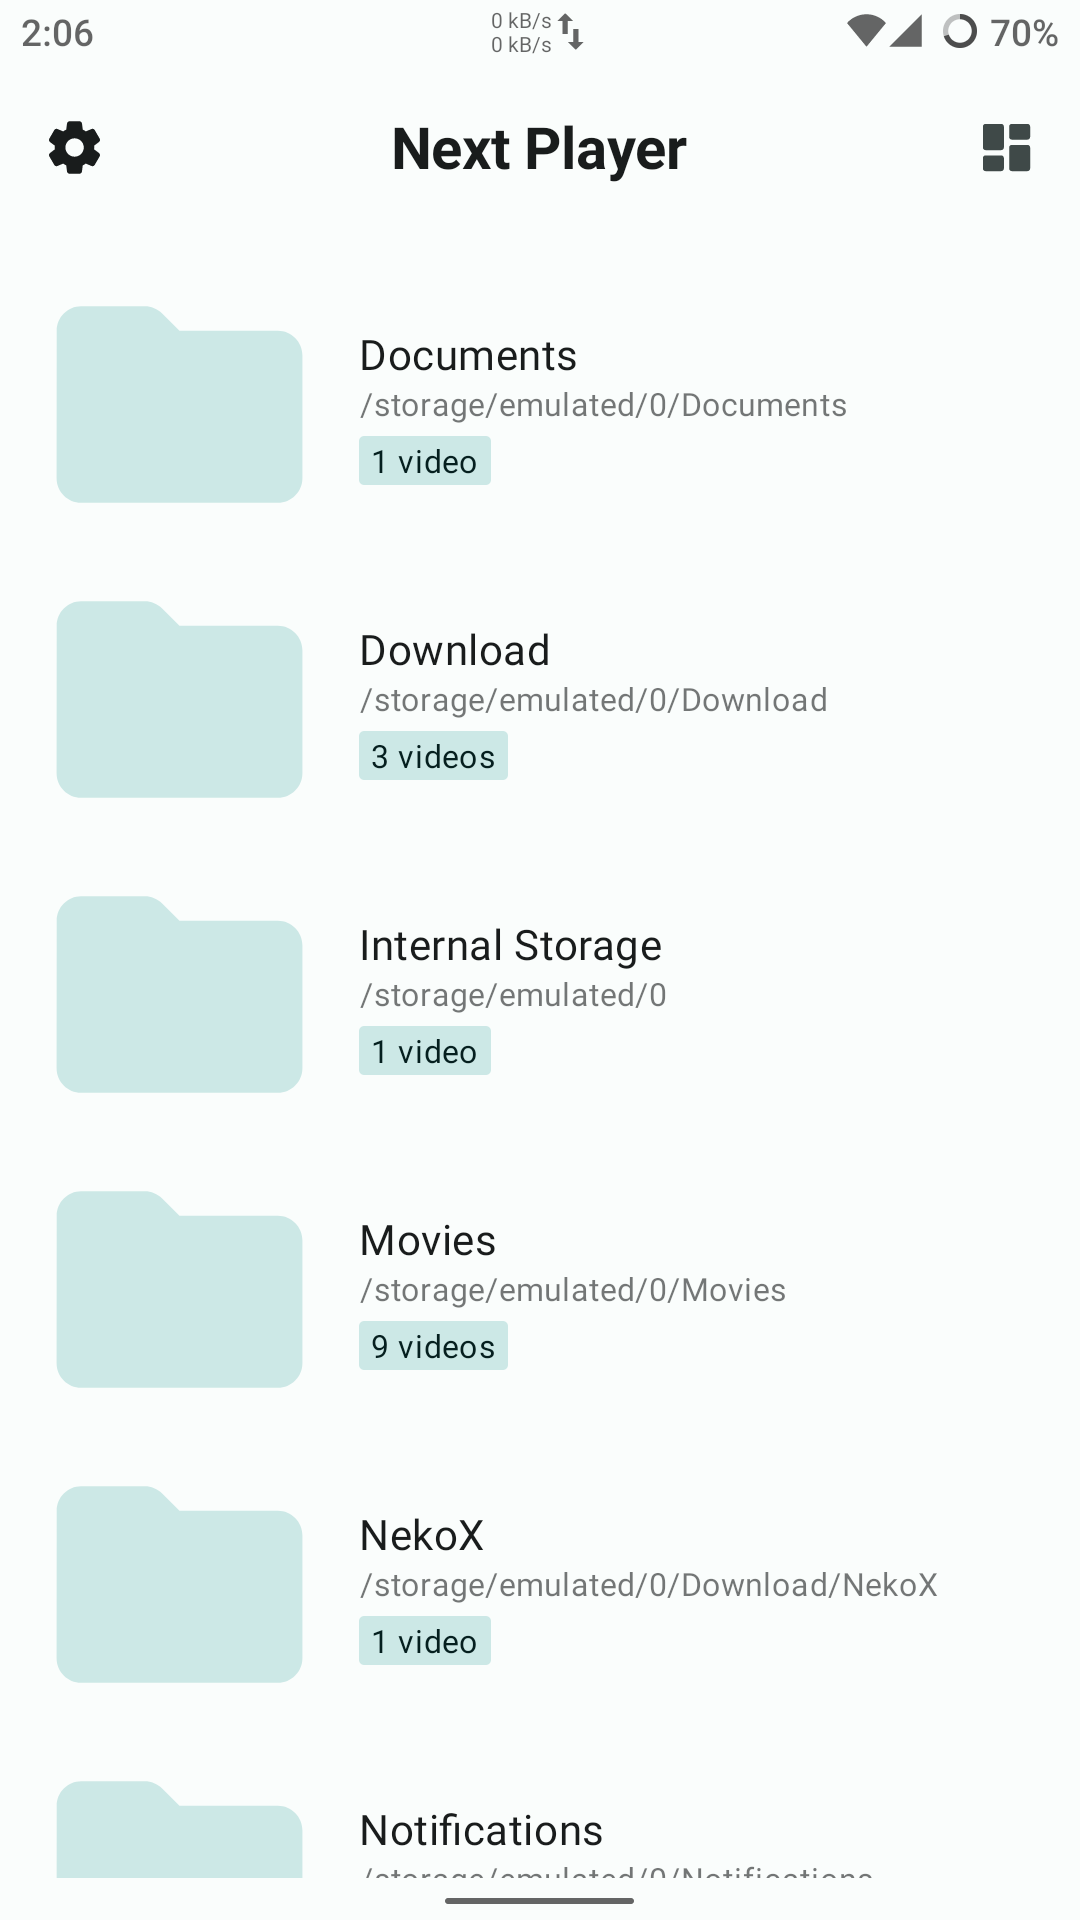
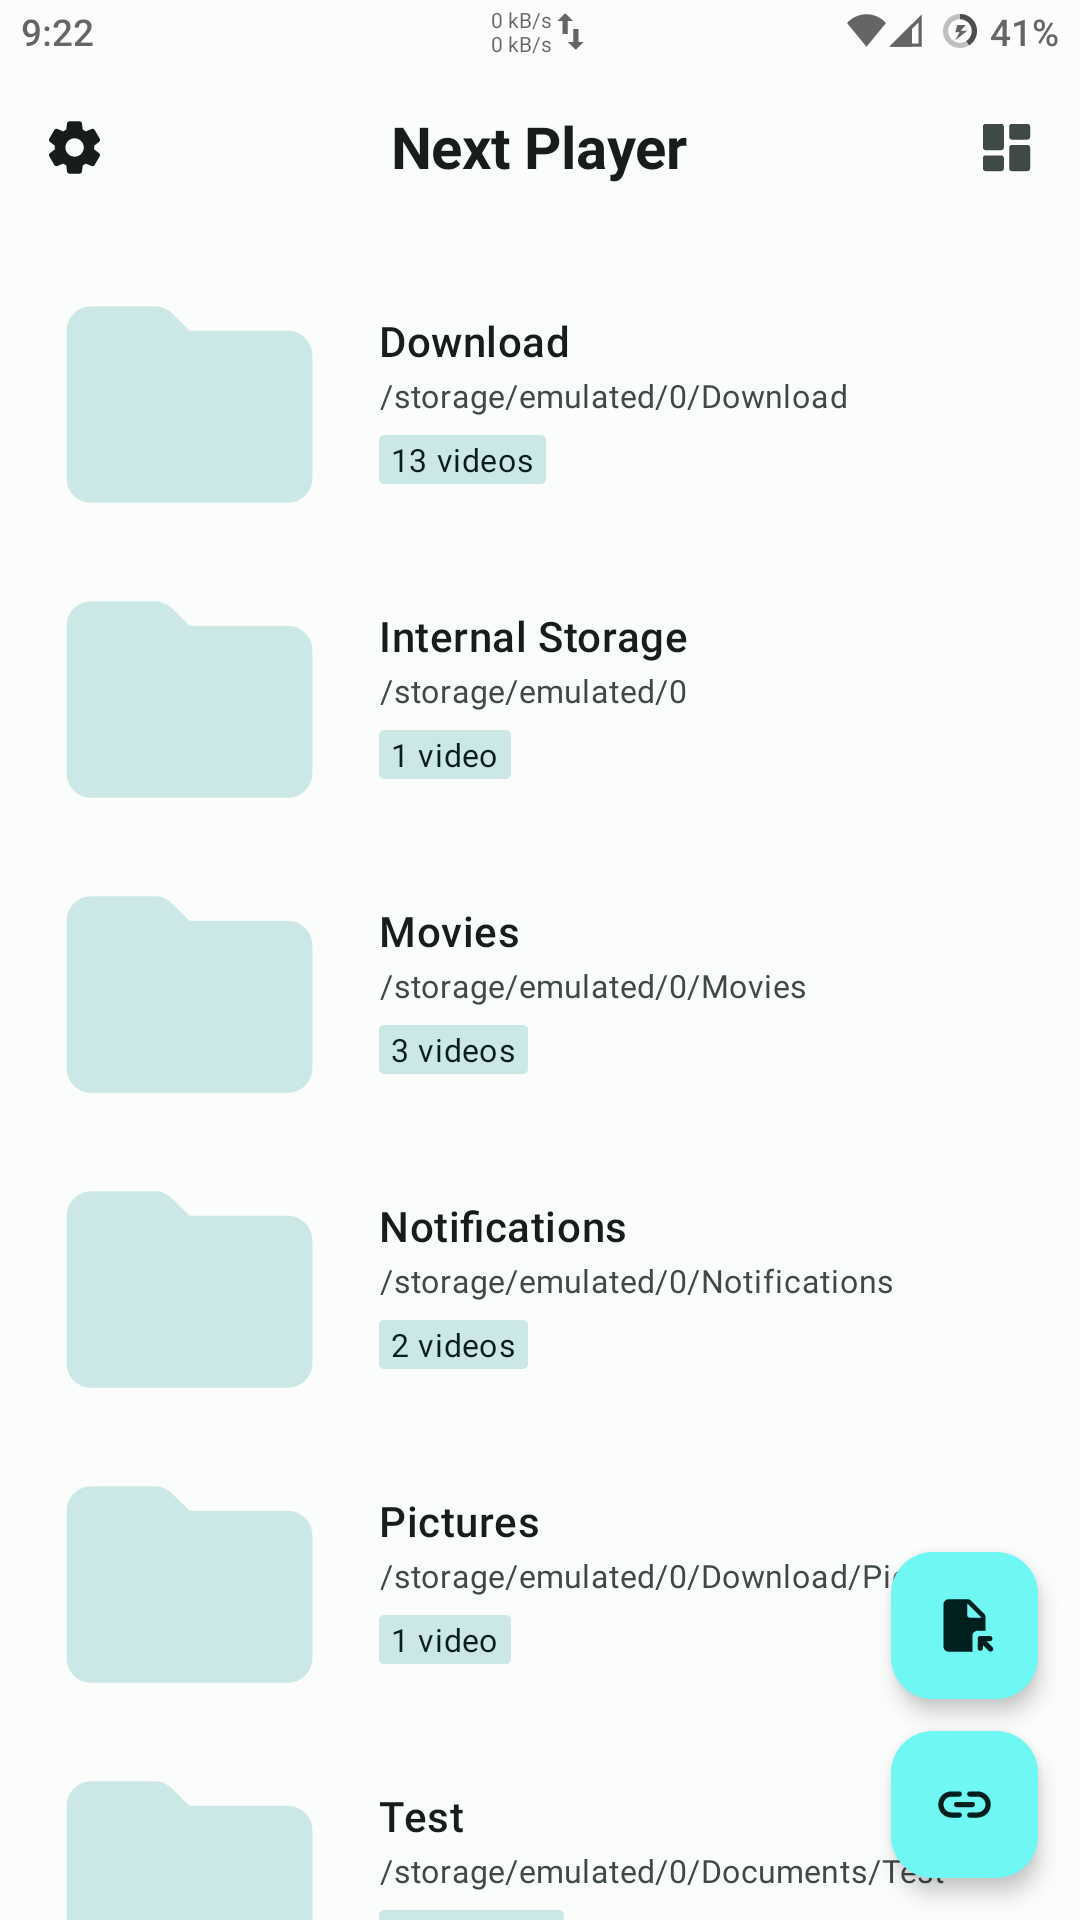
Build: Prepare for v0.4.0 release (#432)
* build: bump version to 0.4.0

* update readme

* update screenshots

* update screenshots

diff --git a/README.md b/README.md
@@ -12,18 +12,19 @@ Next Player is an Android native video player written in Kotlin. It provides a s
 
 <div style="width:100%; display:flex; justify-content:space-between;">
 
-[<img src="fastlane/metadata/android/en-US/images/phoneScreenshots/1.png" width=20% alt="Home Light">](fastlane/metadata/android/en-US/images/phoneScreenshots/1.png)
-[<img src="fastlane/metadata/android/en-US/images/phoneScreenshots/2.png" width=20% alt="Home Dark">](fastlane/metadata/android/en-US/images/phoneScreenshots/2.png)
-[<img src="fastlane/metadata/android/en-US/images/phoneScreenshots/3.png" width=20% alt="Sub Folder Light">](fastlane/metadata/android/en-US/images/phoneScreenshots/3.png)
-[<img src="fastlane/metadata/android/en-US/images/phoneScreenshots/5.png" width=20% alt="Quick Settings">](fastlane/metadata/android/en-US/images/phoneScreenshots/5.png)
+[<img src="fastlane/metadata/android/en-US/images/phoneScreenshots/1.png" width=19% alt="Home Light">](fastlane/metadata/android/en-US/images/phoneScreenshots/1.png)
+[<img src="fastlane/metadata/android/en-US/images/phoneScreenshots/2.png" width=19% alt="Home Dark">](fastlane/metadata/android/en-US/images/phoneScreenshots/2.png)
+[<img src="fastlane/metadata/android/en-US/images/phoneScreenshots/3.png" width=19% alt="Sub Folder Light">](fastlane/metadata/android/en-US/images/phoneScreenshots/3.png)
+[<img src="fastlane/metadata/android/en-US/images/phoneScreenshots/4.png" width=19% alt="Sub Folder Dark">](fastlane/metadata/android/en-US/images/phoneScreenshots/4.png)
+[<img src="fastlane/metadata/android/en-US/images/phoneScreenshots/5.png" width=19% alt="Quick Settings">](fastlane/metadata/android/en-US/images/phoneScreenshots/5.png)
 </div>
 
 ### Player Ui
 
 <div style="width:100%; display:flex; justify-content:space-between;">
     
-[<img src="fastlane/metadata/android/en-US/images/phoneScreenshots/6.png" width=45% alt="Player">](fastlane/metadata/android/en-US/images/phoneScreenshots/6.png)
-[<img src="fastlane/metadata/android/en-US/images/phoneScreenshots/7.png" width=45% alt="Player">](fastlane/metadata/android/en-US/images/phoneScreenshots/7.png)
+[<img src="fastlane/metadata/android/en-US/images/phoneScreenshots/6.png" width=49% alt="Player">](fastlane/metadata/android/en-US/images/phoneScreenshots/6.png)
+[<img src="fastlane/metadata/android/en-US/images/phoneScreenshots/7.png" width=49% alt="Player">](fastlane/metadata/android/en-US/images/phoneScreenshots/7.png)
 </div>
 
 ## Supported formats
@@ -38,6 +39,7 @@ Next Player is an Android native video player written in Kotlin. It provides a s
 ## Features
 - Native Android app with simple and easy-to-use interface
 - Completely free and open source and without any ads or excessive permissions
+- Software decoders for h264 and hevc
 - Audio/Subtitle track selection
 - Vertical swipe to change brightness (left) / volume (right)
 - Horizontal swipe to seek through video
